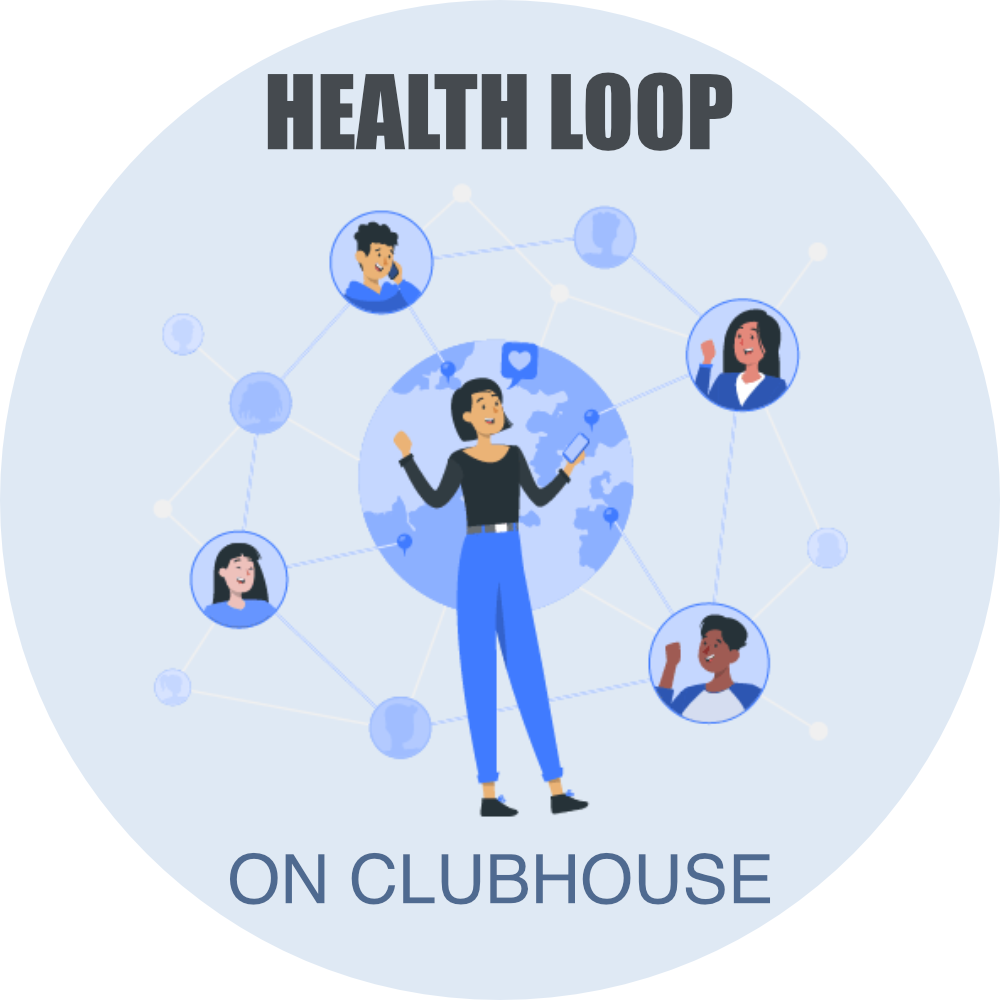
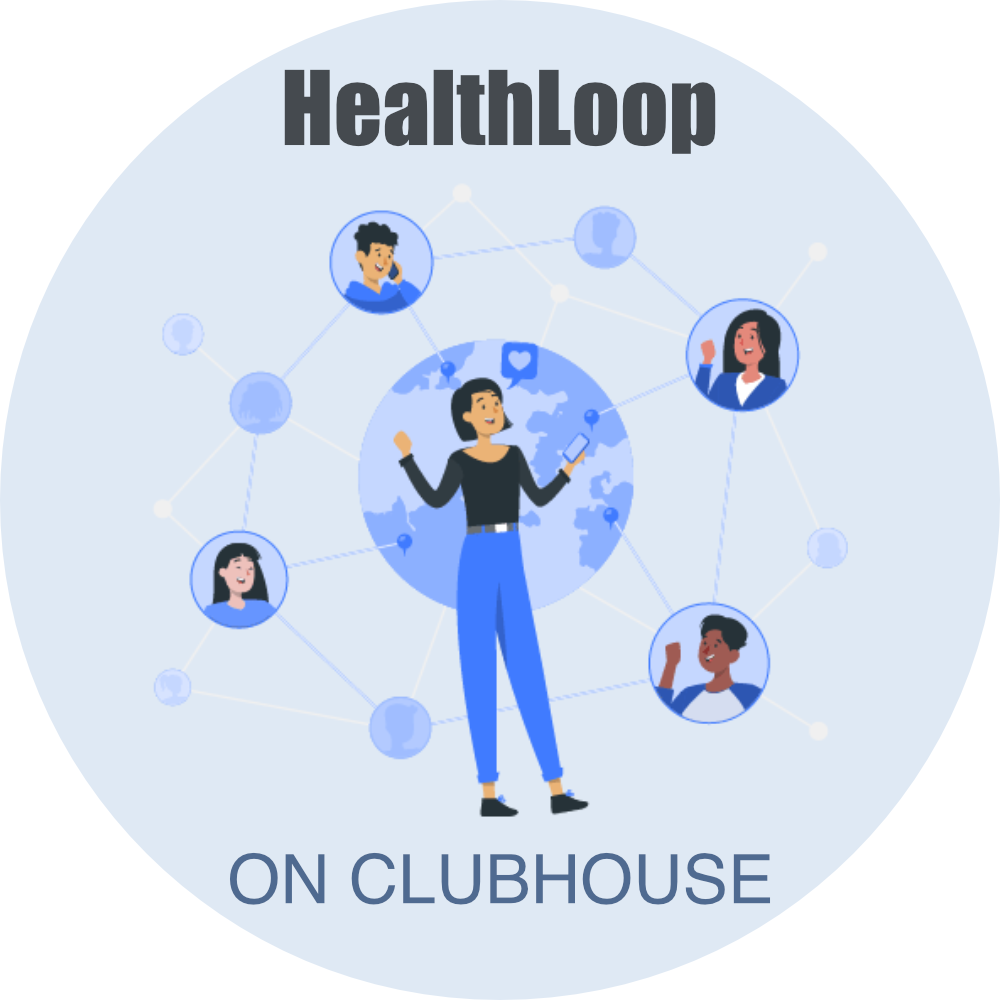
bug on homepage fixed clubhouse page changed

Changed region(s): [[0.248, 0.062, 0.744, 0.155]]

diff --git a/src/app/home/landing-clubhouse/landing-clubhouse.component.html b/src/app/home/landing-clubhouse/landing-clubhouse.component.html
@@ -2,17 +2,18 @@
   <div class="container position-relative z-index-1">
     <div class="row justify-content-between align-items-center">
       <div class="col-12 text-center">
-        <h2 class="text-gradient mb-3">STAY IN THE HELATHLOOP</h2>
-        <h3 class="mb-3">Sign-up for free information on how you can scale your health and wellness business</h3>
+        <h2 class="text-gradient mb-3">Welcom to HealthLoop </h2>
+        <h3 class="mb-3">where we spark conversations in this forum on challenges of both health and wellness seekers and providers</h3>
         <div class="mt-5">
-          <a href="https://ios.joinclubhouse.com/club/health-business-hacks" target="_blank" class="btn btn-outline-primary px-5 rounded-10p font-regular">Find Us on Clubhouse</a>
+          <a href="https://www.joinclubhouse.com/club/healthloop" target="_blank" class="btn btn-outline-primary px-5 rounded-10p font-regular">Find Us on Clubhouse</a>
         </div>     
       </div>
       <div class="col-12 col-md-5 my-5">
         <img class="img-fluid" src="/assets/img/clubhouse.png" alt="clubhouse">
       </div>
       <div class="col-12 col-md-6 my-5">
-        <div class="blur p-3 rounded-10p">
+        <div class="blur px-3 py-4 rounded-10p">
+          <p class="font-weight-400 font-big">Sign-up for free information on how you can scale your health and wellness business</p>
           <form (ngSubmit)="onSubmit()">
             <div class="mb-3">
               <form-item-input

diff --git a/src/app/home/home.component.html b/src/app/home/home.component.html
@@ -196,7 +196,7 @@
               </ng-template> -->
               <div class="col-6 col-md-3 col-lg-4"
                 *ngFor="let feature of this.introBannerItems[allIntroBannerKeys[currentKeyIndex]].features">
-                <a [routerLink]="['/dashboard/detail/', feature.userId._id]">
+                <a *ngIf="feature.userId" [routerLink]="['/dashboard/detail/', feature.userId._id]">
                   <div class="featured-image">
                     <user-image class="w-100" [verifiedUser]="feature.userId.verifiedBadge" [showBadge]="true"
                       [badgeSize]="featuredImageData.badgeSize" [borderWidth]="1"
